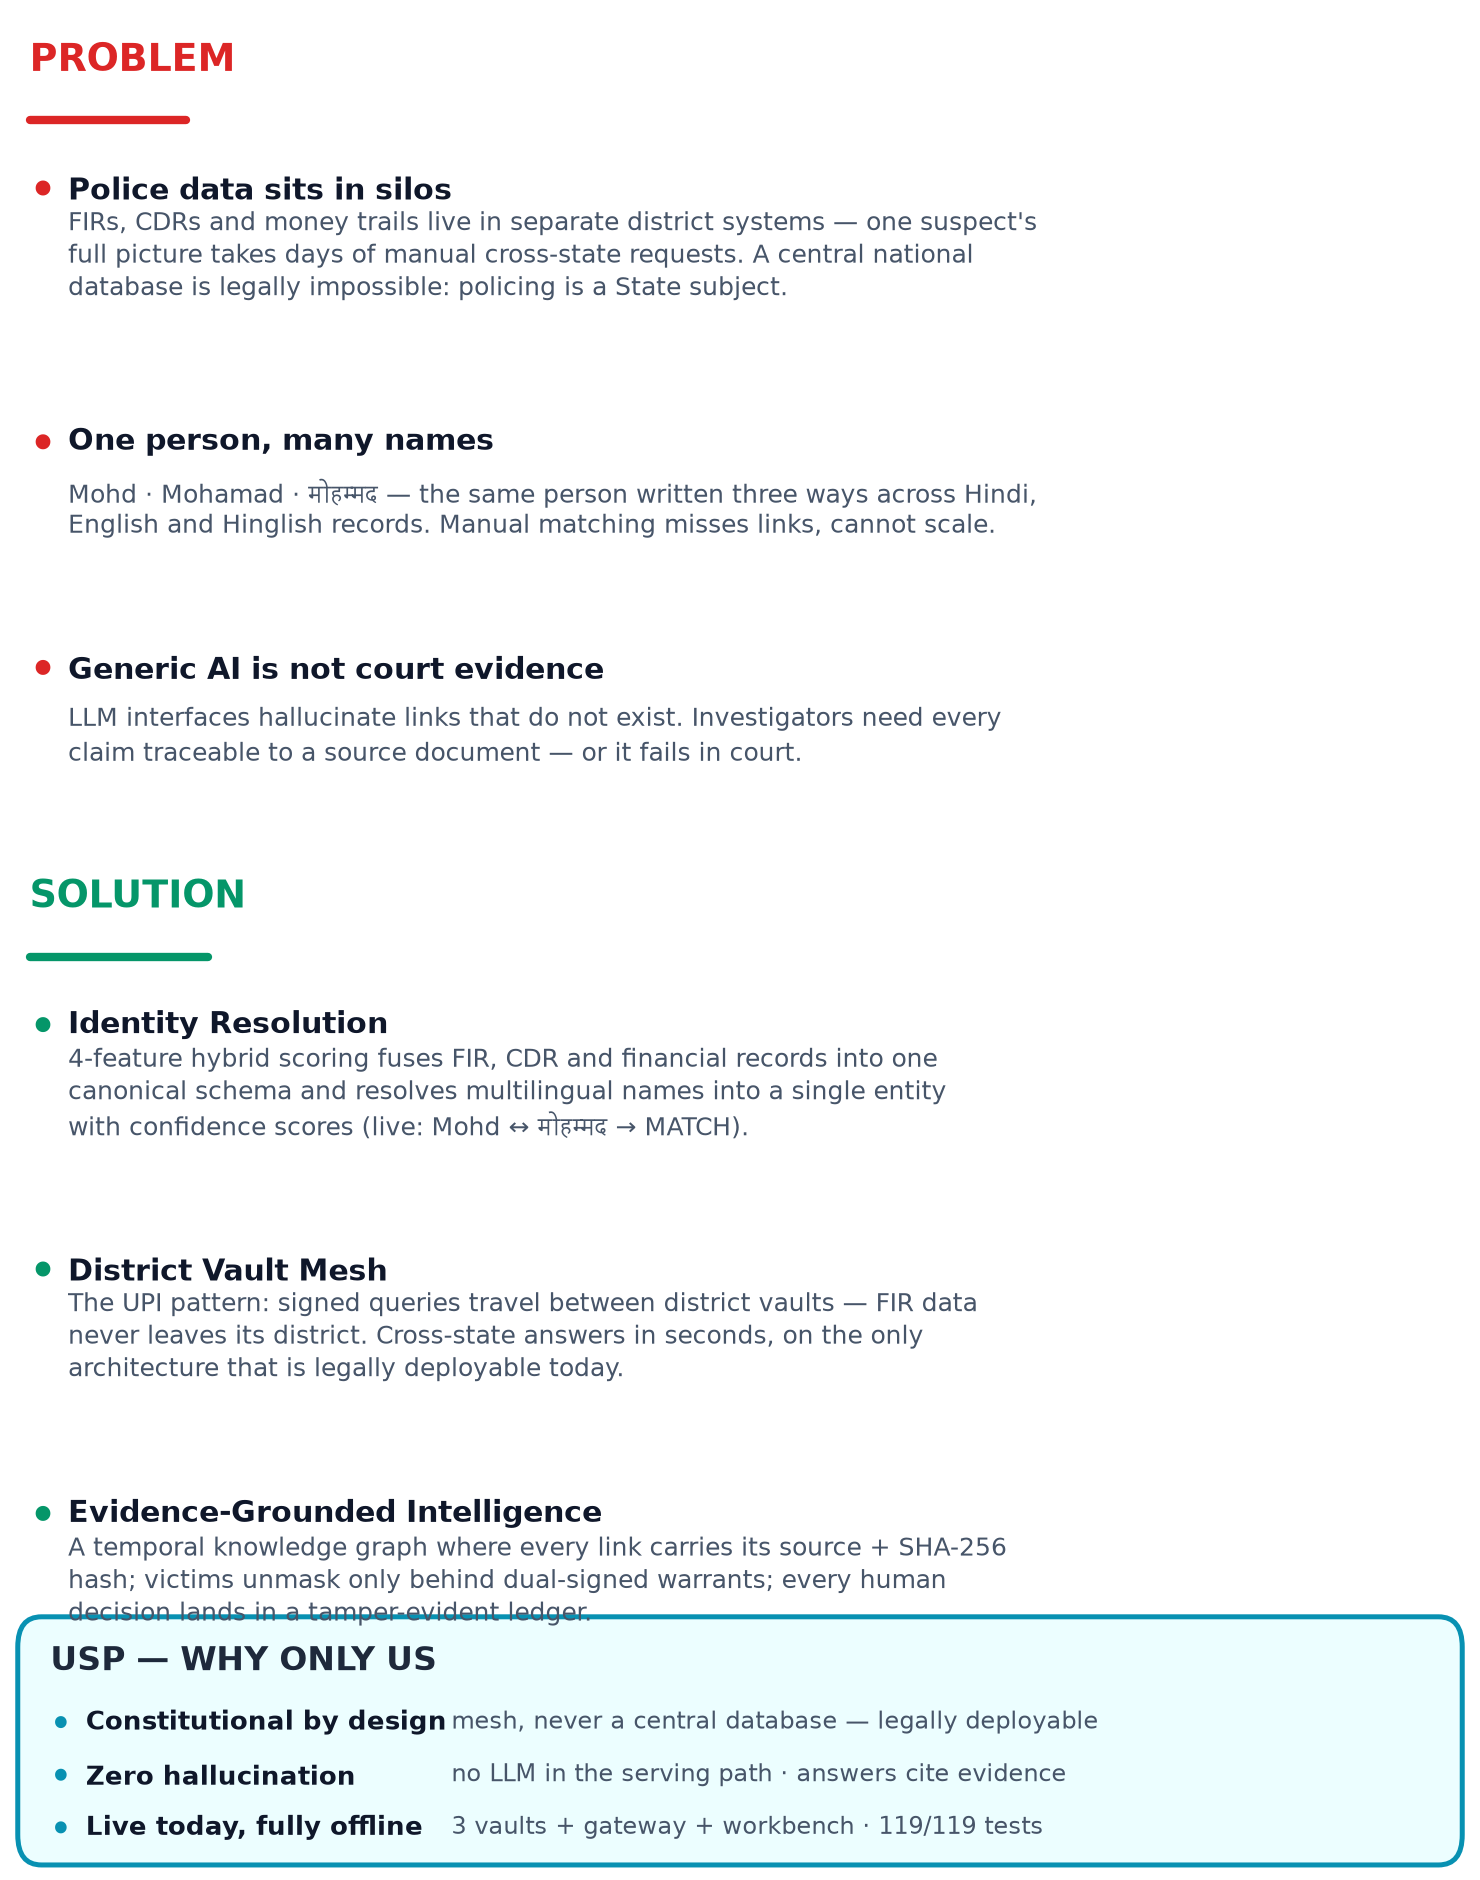
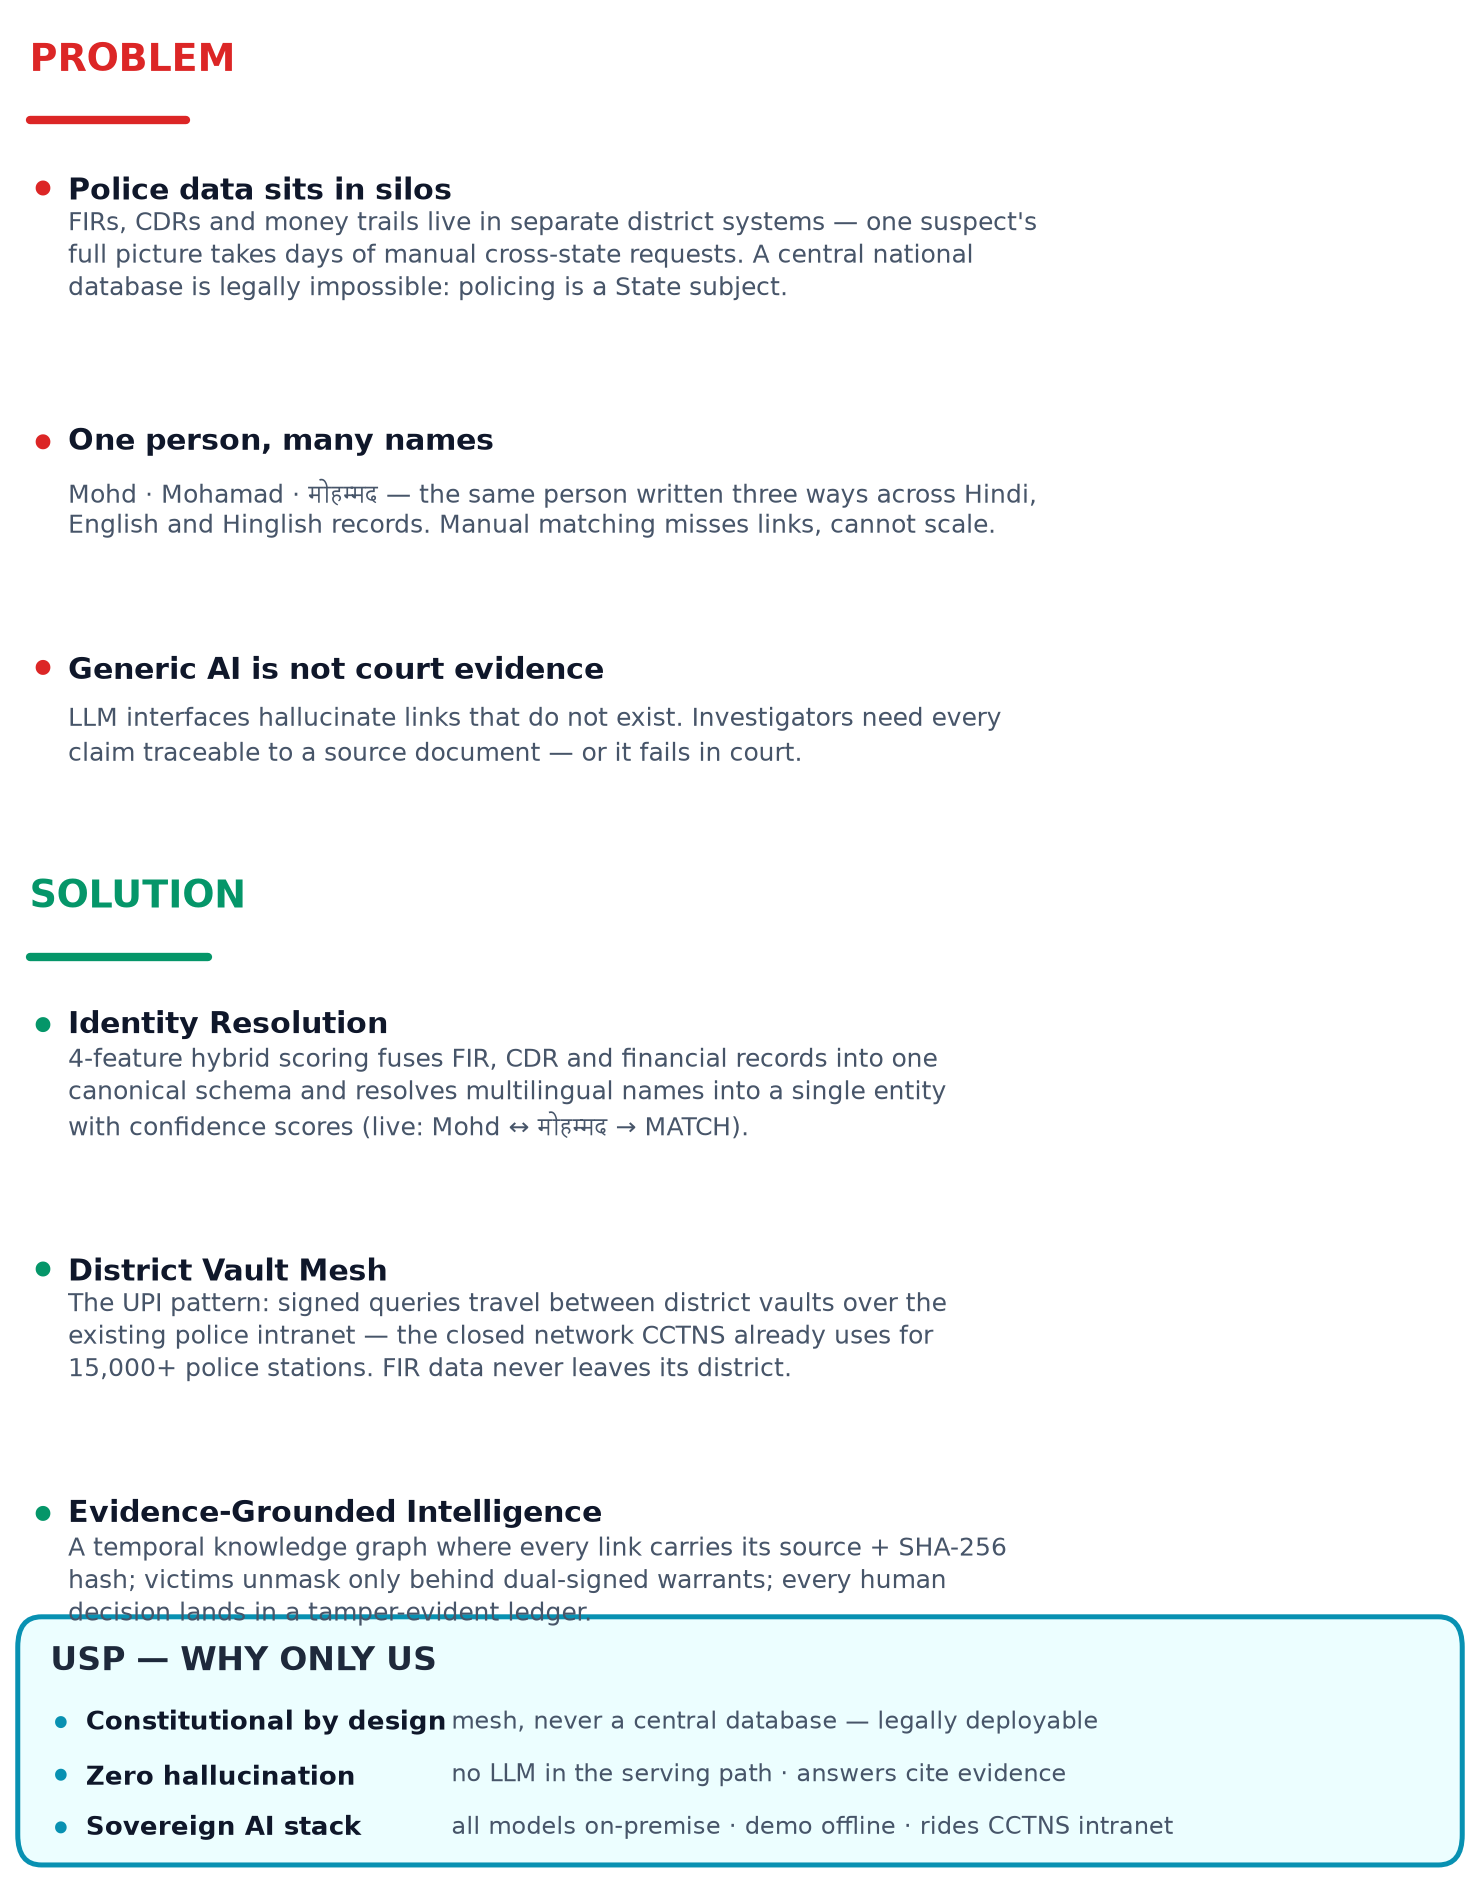
Fix slide-2 offline-claim honesty after research: mesh rides CCTNS police intranet, AI is sovereign/on-premise
- research: CCTNS already interconnects 15,000+ police stations on a closed
  government network (not public internet) - so cross-district queries ride
  that existing intranet (UPI analogy: needs bank network, not public internet)
- Solution-2 rewritten: 'signed queries travel over the existing police
  intranet - the closed network CCTNS already uses'
- USP-3 replaced 'fully offline' with 'Sovereign AI stack: all models
  on-premise, demo offline, rides CCTNS intranet' (judge-proof, no contradiction)
- OCR-verified, mockup rebuilt

diff --git a/ppt-assets/slide2/generate_left_panel.py b/ppt-assets/slide2/generate_left_panel.py
@@ -79,9 +79,9 @@ def run():
            "canonical schema and resolves multilingual names into a single entity\n"
            "with confidence scores (live: Mohd ↔ मोहम्मद → MATCH).", EMER)
     bullet(32.5, "District Vault Mesh",
-           "The UPI pattern: signed queries travel between district vaults — FIR data\n"
-           "never leaves its district. Cross-state answers in seconds, on the only\n"
-           "architecture that is legally deployable today.", EMER)
+           "The UPI pattern: signed queries travel between district vaults over the\n"
+           "existing police intranet — the closed network CCTNS already uses for\n"
+           "15,000+ police stations. FIR data never leaves its district.", EMER)
     bullet(19.5, "Evidence-Grounded Intelligence",
            "A temporal knowledge graph where every link carries its source + SHA-256\n"
            "hash; victims unmask only behind dual-signed warrants; every human\n"
@@ -95,7 +95,7 @@ def run():
     rows = [
         (8.4, "Constitutional by design", "mesh, never a central database — legally deployable"),
         (5.6, "Zero hallucination", "no LLM in the serving path · answers cite evidence"),
-        (2.8, "Live today, fully offline", "3 vaults + gateway + workbench · 119/119 tests"),
+        (2.8, "Sovereign AI stack", "all models on-premise · demo offline · rides CCTNS intranet"),
     ]
     for y, head, expl in rows:
         txt(3.4, y, "•", size=12, color=CYAN, weight="bold")
